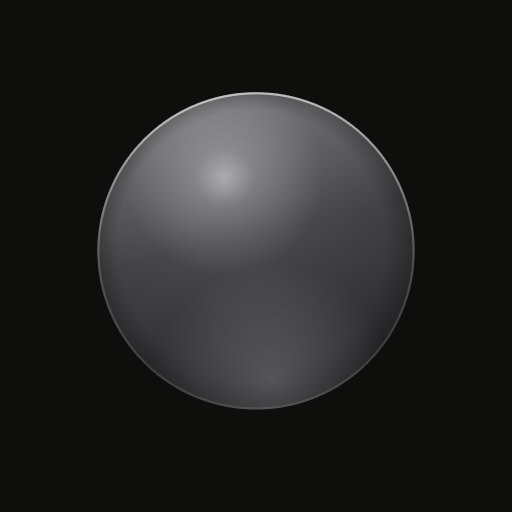
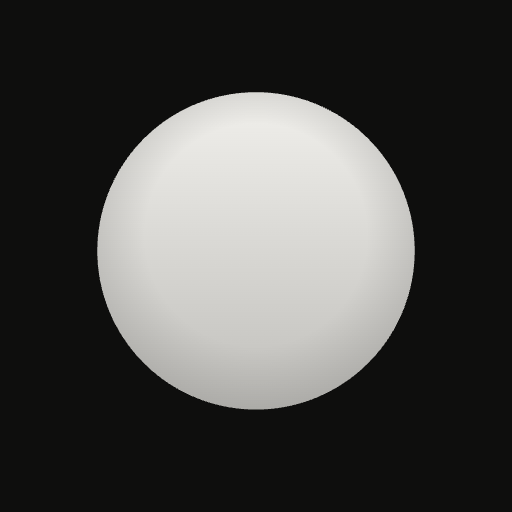
Pale graphic marbles; dim the cluster around the selection; reload on update

diff --git a/src/marble.ts b/src/marble.ts
@@ -13,8 +13,8 @@ export const colorIndex = (_name: string) => 0;
 export const cssColor = (_ci: number) => '#fff';
 
 /**
- * Paints one marble of radius r centred on (cx, cy): smoked glass under a single soft
- * light from above. Nothing here is brighter than it needs to be to read as a sphere.
+ * Paints one marble of radius r centred on (cx, cy). Deliberately graphic rather than
+ * rendered: a pale disc with just enough tone, top to bottom, to suggest a sphere.
  */
 export function paintMarble(
   ctx: CanvasRenderingContext2D,
@@ -24,58 +24,24 @@ export function paintMarble(
   _ci = 0,
   _shadow = true,
 ) {
-  const w = (a: number) => `rgba(255,255,255,${a})`;
-  let g: CanvasGradient;
-
   ctx.save();
   ctx.beginPath();
   ctx.arc(cx, cy, r, 0, Math.PI * 2);
   ctx.clip();
 
-  // body: lit from above, falling away evenly to the base
-  g = ctx.createLinearGradient(cx - r * 0.25, cy - r, cx + r * 0.25, cy + r);
-  g.addColorStop(0, '#8a8a8e');
-  g.addColorStop(0.45, '#4a4a4e');
-  g.addColorStop(1, '#2a2a2d');
+  let g: CanvasGradient = ctx.createLinearGradient(cx, cy - r, cx, cy + r);
+  g.addColorStop(0, '#f1f0ec');
+  g.addColorStop(1, '#bfbeba');
   ctx.fillStyle = g;
   ctx.fillRect(cx - r, cy - r, r * 2, r * 2);
 
-  // curvature: the face stays open, the sides turn away into shade
-  g = ctx.createRadialGradient(cx - r * 0.12, cy - r * 0.2, r * 0.3, cx, cy, r);
+  // the faintest turn at the edge, so neighbours don't merge into one shape
+  g = ctx.createRadialGradient(cx, cy - r * 0.1, r * 0.7, cx, cy, r);
   g.addColorStop(0, 'rgba(0,0,0,0)');
-  g.addColorStop(0.78, 'rgba(0,0,0,0.1)');
-  g.addColorStop(1, 'rgba(0,0,0,0.34)');
-  ctx.fillStyle = g;
-  ctx.fillRect(cx - r, cy - r, r * 2, r * 2);
-
-  // one diffuse highlight, no hard edge
-  const hx = cx - r * 0.2;
-  const hy = cy - r * 0.46;
-  g = ctx.createRadialGradient(hx, hy, 0, hx, hy, r * 0.62);
-  g.addColorStop(0, w(0.46));
-  g.addColorStop(0.3, w(0.2));
-  g.addColorStop(1, w(0));
-  ctx.fillStyle = g;
-  ctx.fillRect(cx - r, cy - r, r * 2, r * 2);
-
-  // a breath of light returning through the base
-  g = ctx.createRadialGradient(cx + r * 0.1, cy + r * 0.82, 0, cx + r * 0.1, cy + r * 0.82, r * 0.75);
-  g.addColorStop(0, w(0.2));
-  g.addColorStop(1, w(0));
+  g.addColorStop(1, 'rgba(0,0,0,0.1)');
   ctx.fillStyle = g;
   ctx.fillRect(cx - r, cy - r, r * 2, r * 2);
   ctx.restore();
-
-  // hairline edge, catching the light at the top and fading out below
-  g = ctx.createLinearGradient(cx, cy - r, cx, cy + r);
-  g.addColorStop(0, w(0.6));
-  g.addColorStop(0.55, w(0.16));
-  g.addColorStop(1, w(0.1));
-  ctx.strokeStyle = g;
-  ctx.lineWidth = Math.max(r * 0.014, 0.5);
-  ctx.beginPath();
-  ctx.arc(cx, cy, r - ctx.lineWidth / 2, 0, Math.PI * 2);
-  ctx.stroke();
 }
 
 // Mip chain: a marble is drawn from the smallest sprite at least as big as it is on screen.

diff --git a/src/world.ts b/src/world.ts
@@ -57,6 +57,8 @@ let sheetInset = 0;
 
 let nodes: Node[] = [];
 let selected: Node | null = null;
+/** The marble the rest of the cluster dims around; outlives `selected` while it settles back. */
+let spot: Node | null = null;
 const animating = new Set<Node>();
 const ghosts = new Map<string, { x: number; y: number }>();
 const flights: Flight[] = [];
@@ -379,7 +381,7 @@ function doubleTap(x: number, y: number) {
 // ── selection ─────────────────────────────────────────────────────────────
 function select(n: Node) {
   if (selected && selected !== n) release(selected);
-  selected = n;
+  selected = spot = n;
   n.lt = 1;
   n.fx = n.x;
   n.fy = n.y;
@@ -599,7 +601,7 @@ function frame(now: number) {
   else last = 0;
 }
 
-function drawNode(n: Node, ox: number, oy: number, z: number) {
+function drawNode(n: Node, ox: number, oy: number, z: number, dim = 1) {
   const rr = n.r * n.k * z * (1 + LIFT * n.lift);
   if (rr < 0.3) return;
   const x = n.x * z + ox;
@@ -610,7 +612,7 @@ function drawNode(n: Node, ox: number, oy: number, z: number) {
     ctx.globalAlpha = Math.min(1, 0.55 * n.lift);
     ctx.drawImage(shadowSprite(), x - rr * 1.5 + rr * 0.1 * n.lift, y - rr * 1.5 + rr * 0.34 * n.lift, rr * 3, rr * 3);
   }
-  ctx.globalAlpha = n.fade;
+  ctx.globalAlpha = n.fade * dim;
   ctx.drawImage(sprite(n.ci, rr * dpr), x - rr * PAD, y - rr * PAD, rr * PAD * 2, rr * PAD * 2);
   ctx.globalAlpha = 1;
 }
@@ -622,7 +624,9 @@ function render() {
   const z = cam.z;
   const ox = W / 2 - cam.x * z;
   const oy = H / 2 - cam.y * z;
-  for (const n of nodes) if (n.lift <= 0.001) drawNode(n, ox, oy, z);
+  // with every marble alike, the chosen one is shown by quieting the others
+  const dim = spot && nodes.includes(spot) ? 1 - 0.6 * clamp(spot.lift, 0, 1) : 1;
+  for (const n of nodes) if (n.lift <= 0.001) drawNode(n, ox, oy, z, dim);
   for (const f of flights) {
     // the shadow gathers under the spot it's about to land on
     const t = clamp((performance.now() - f.t0) / FLIGHT_MS, 0, 1);

diff --git a/src/main.ts b/src/main.ts
@@ -208,5 +208,10 @@ $<HTMLInputElement>('input[type=file]', backupBody).addEventListener('change', a
 document.addEventListener('touchstart', () => {}, { passive: true });
 
 if (import.meta.env.PROD && 'serviceWorker' in navigator) {
-  navigator.serviceWorker.register('./sw.js').catch(() => {});
+  // When a new version takes over an already-open app, reload once so it's what you see.
+  const had = !!navigator.serviceWorker.controller;
+  navigator.serviceWorker.addEventListener('controllerchange', () => {
+    if (had) location.reload();
+  });
+  navigator.serviceWorker.register('./sw.js', { updateViaCache: 'none' }).catch(() => {});
 }
